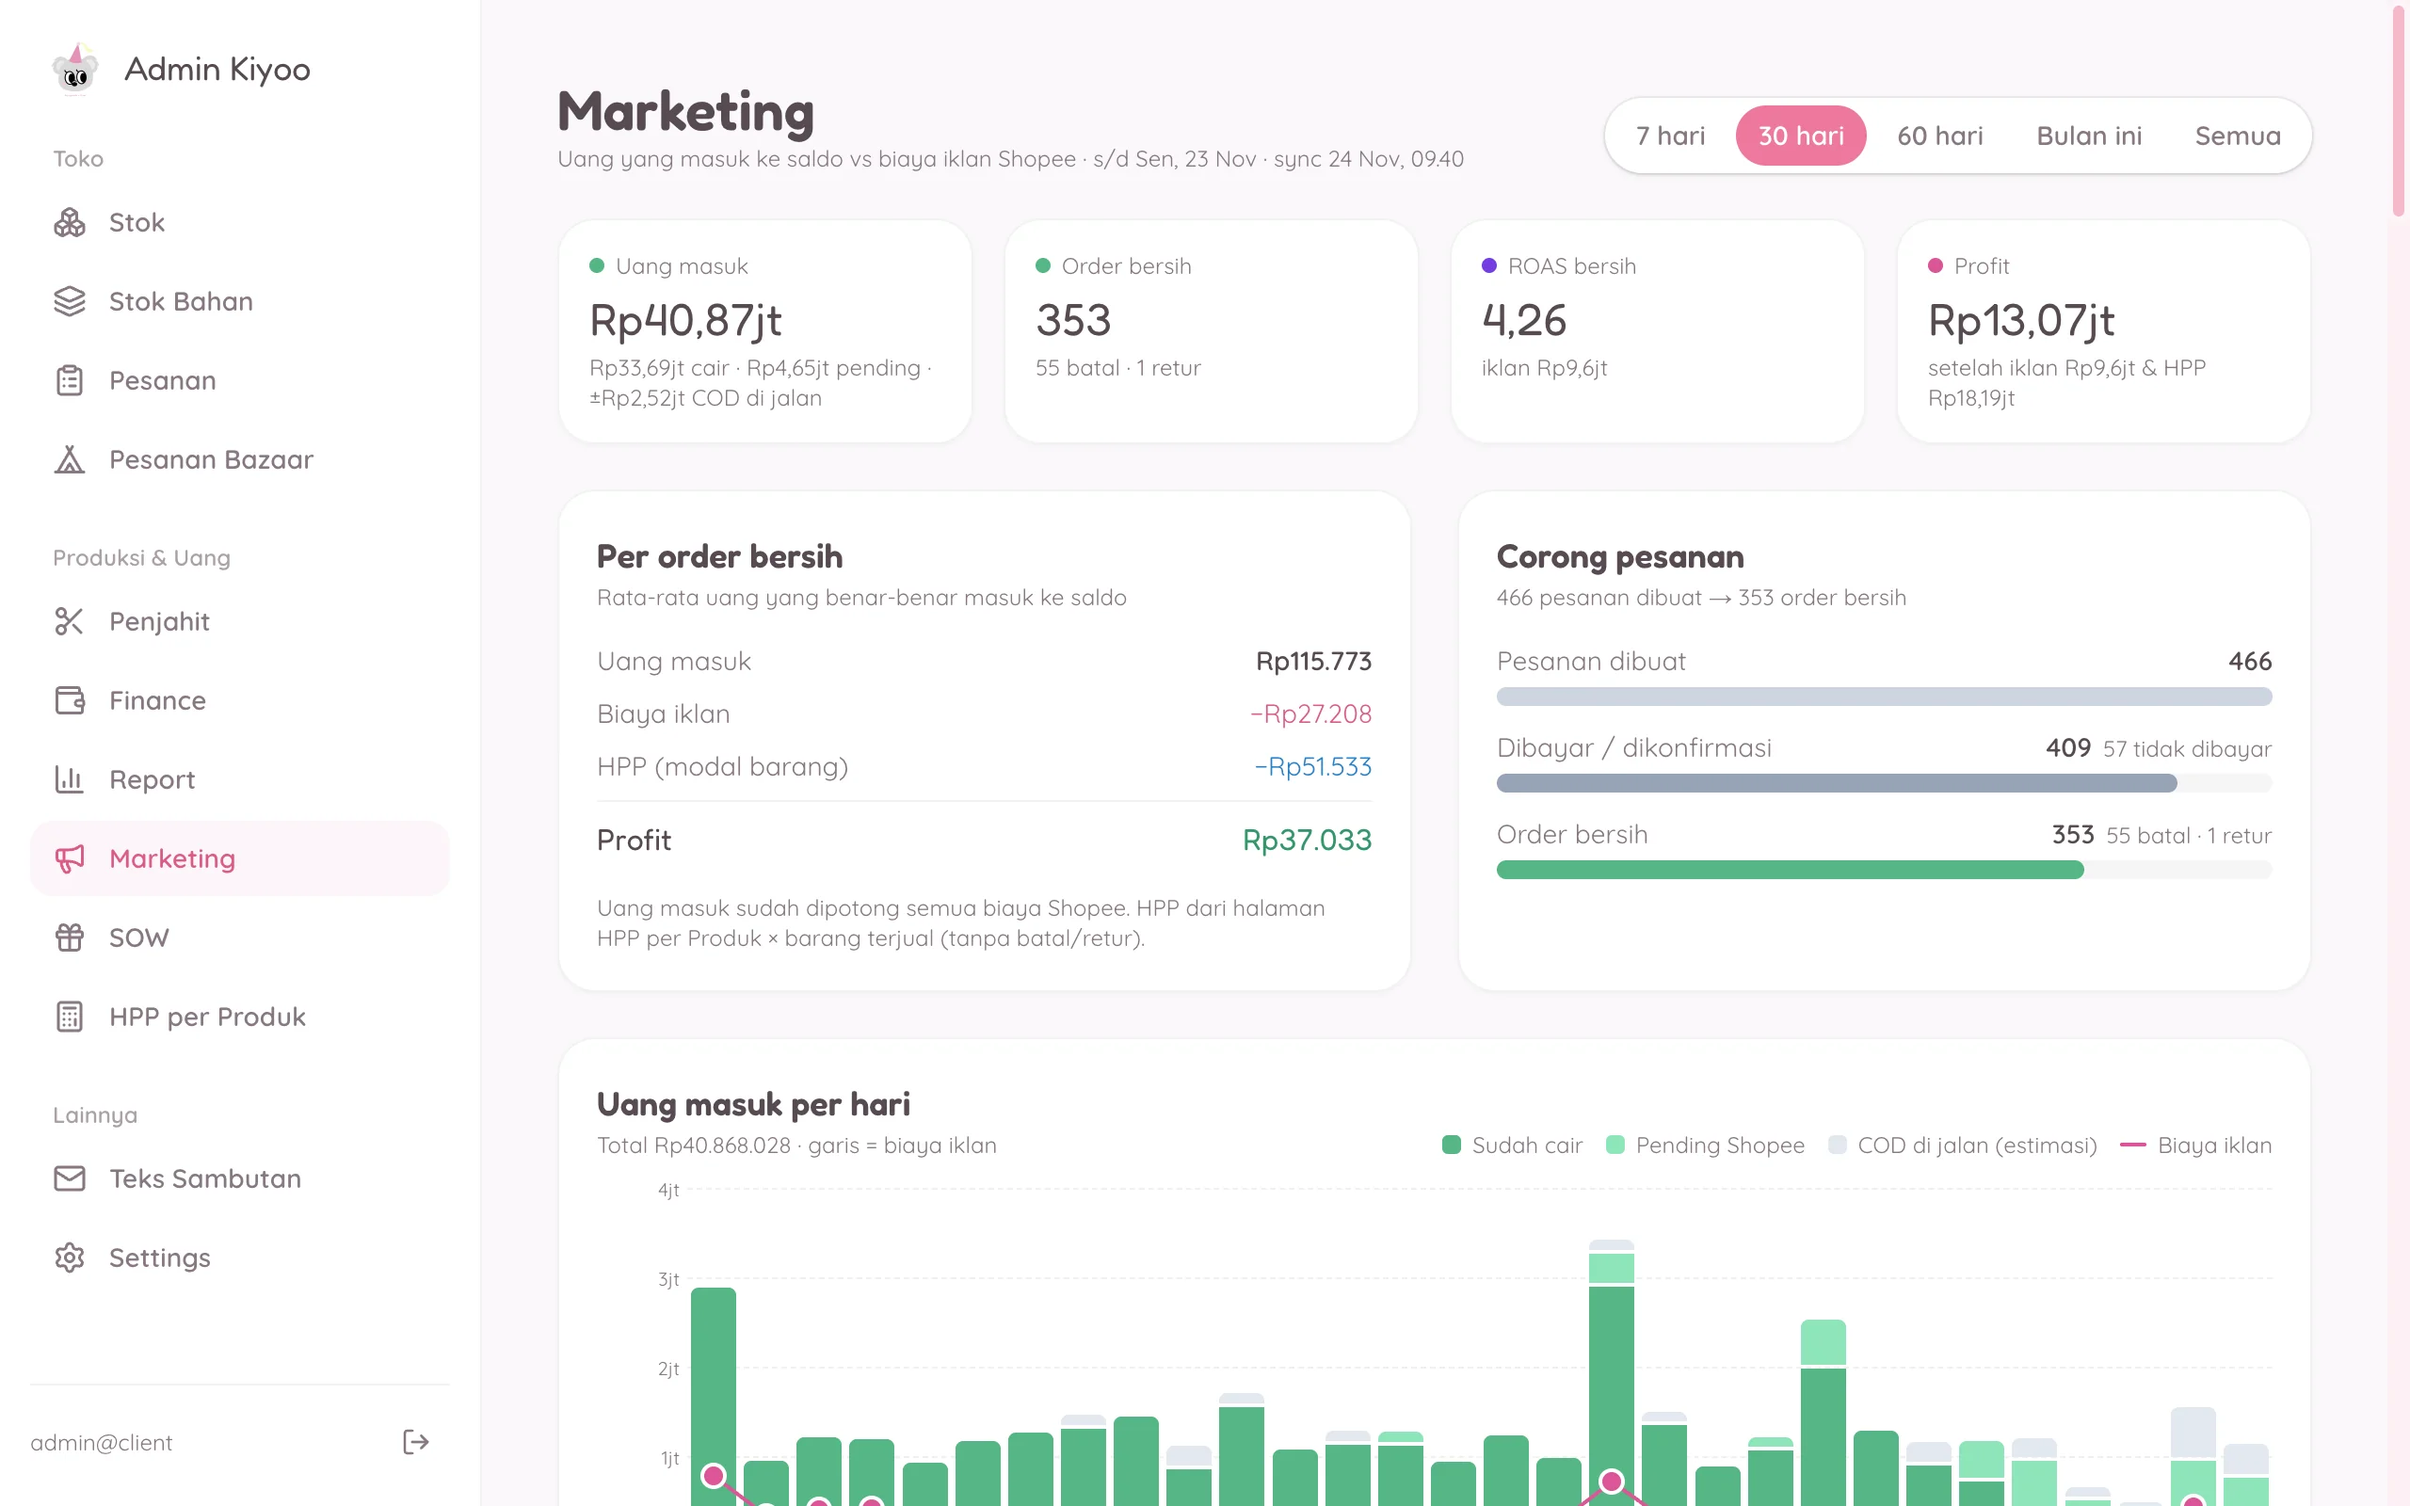
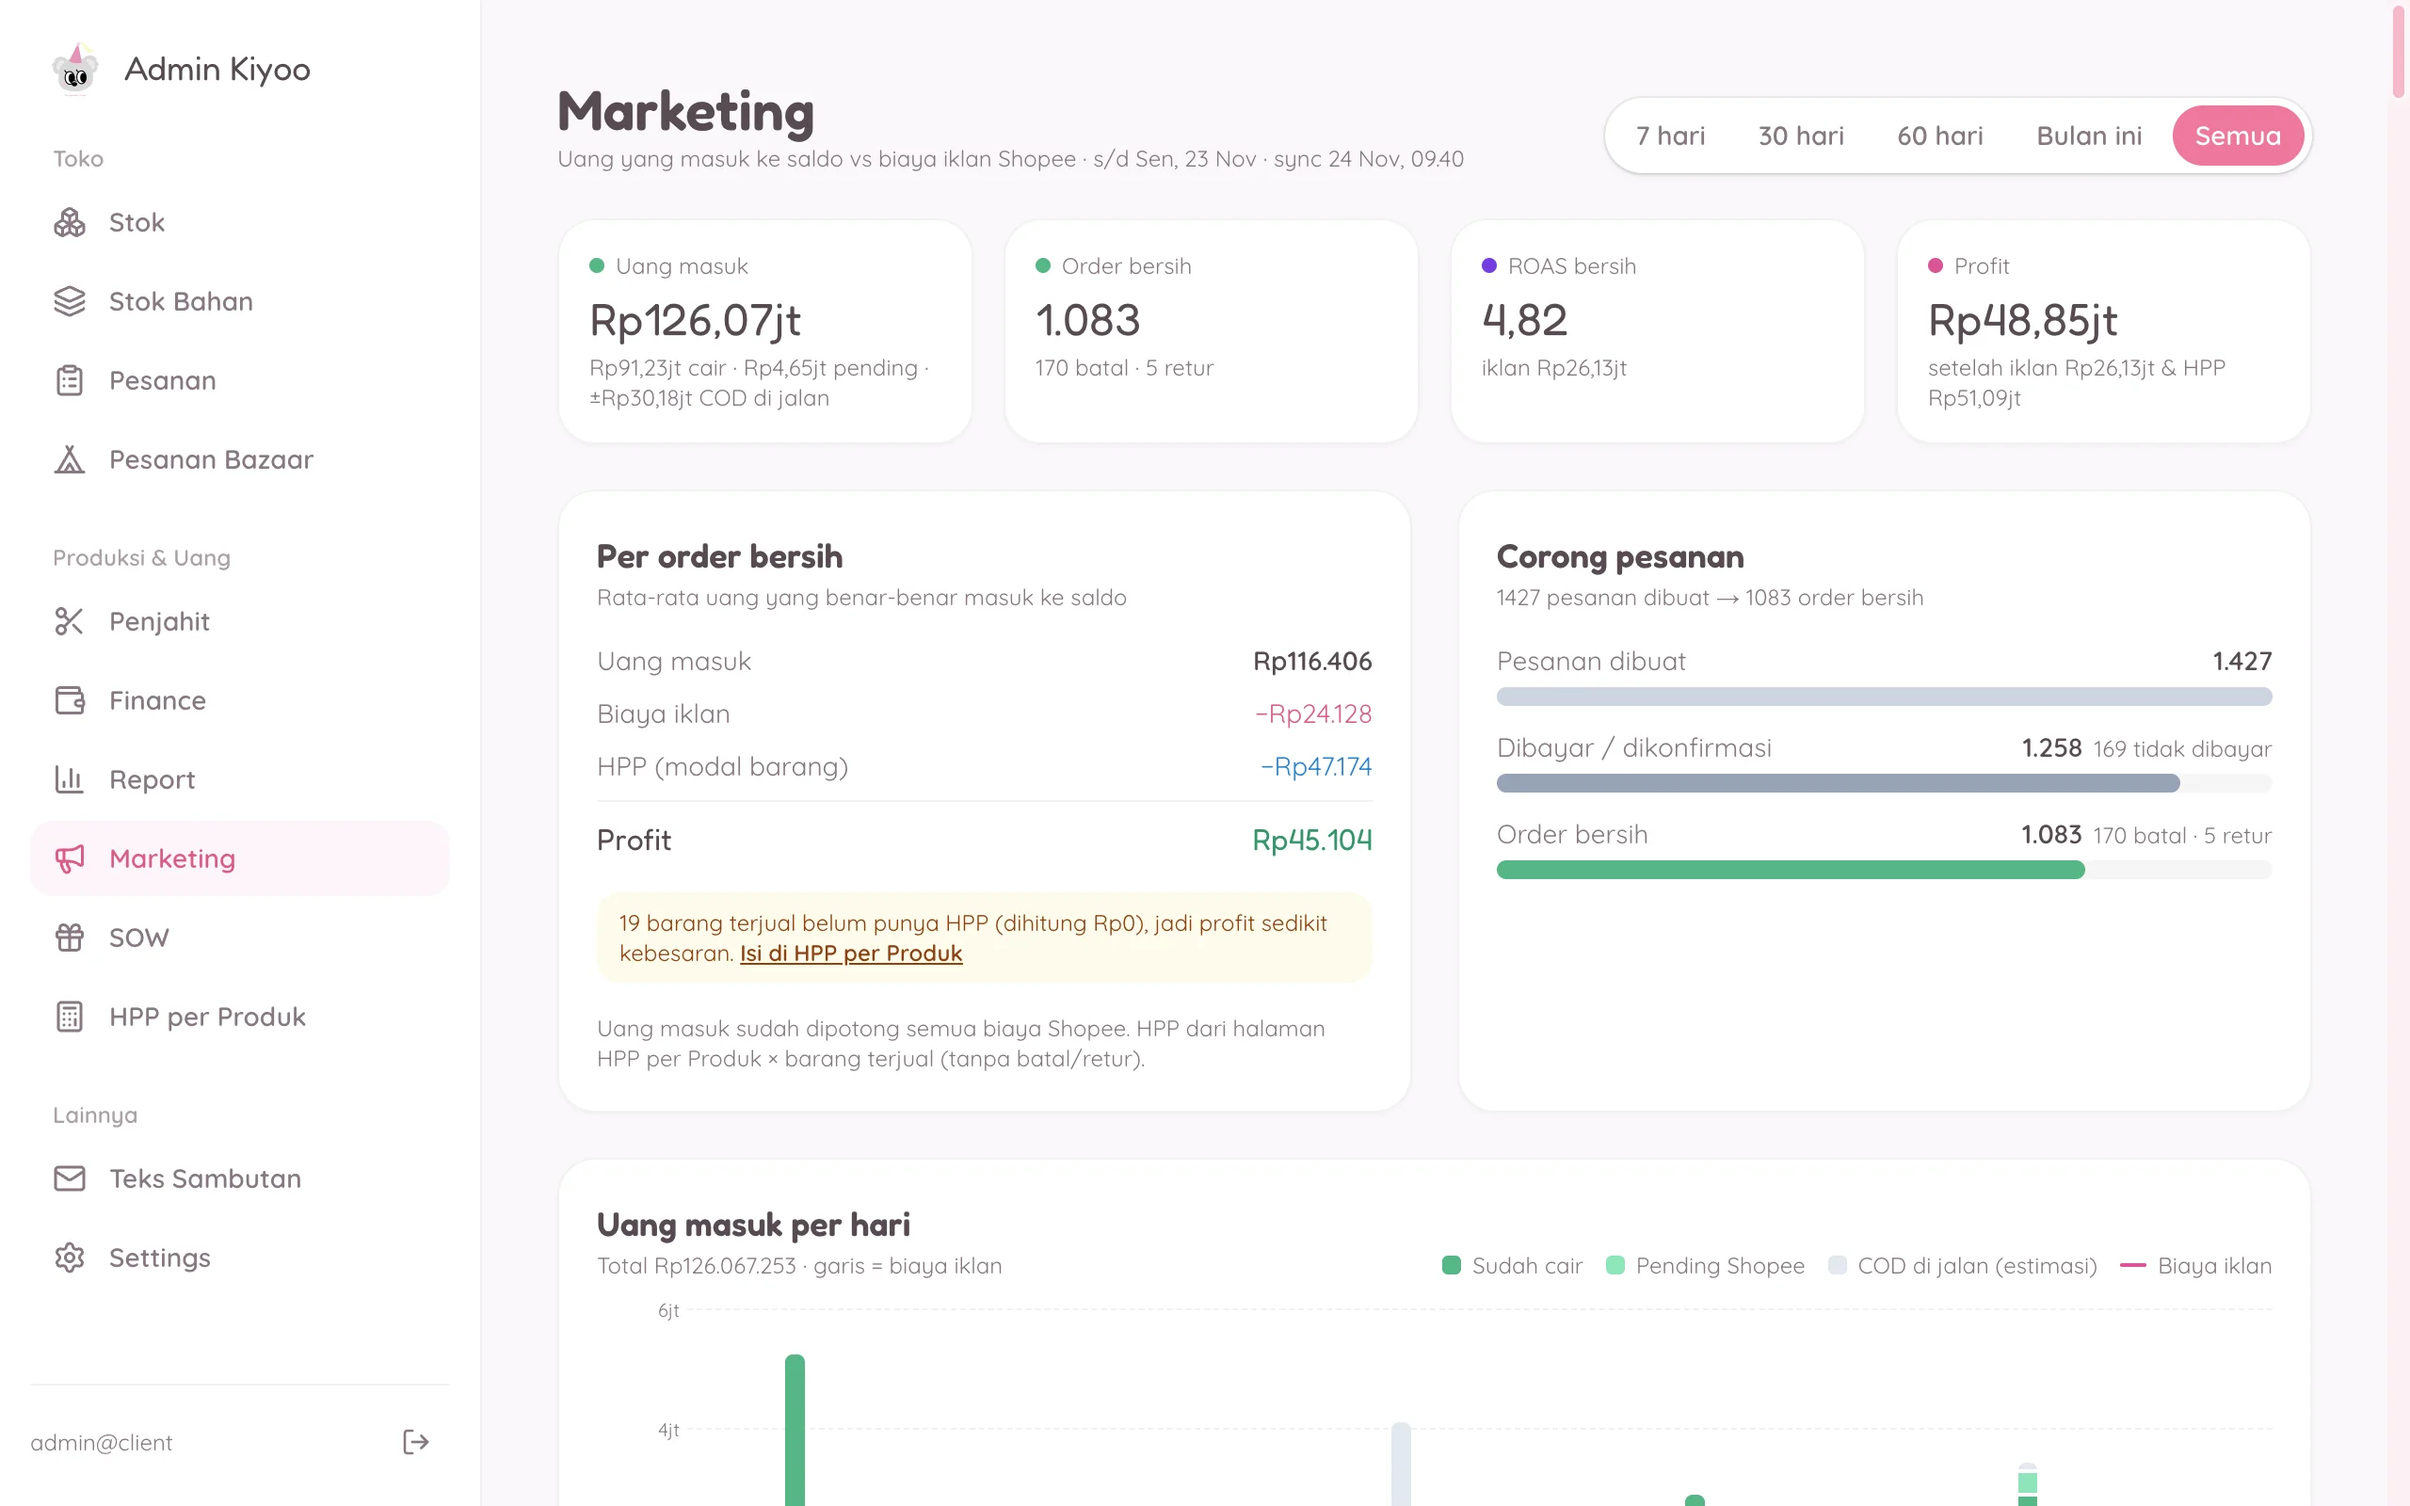
Kiyoo case study: use all-orders numbers instead of last 30 days
Results, captions and the two Marketing screenshots now use the dashboard's
all-orders view (1,083 clean orders, net ROAS 4.82, Rp48.85M profit).

diff --git a/src/content/projects.ts b/src/content/projects.ts
@@ -27,8 +27,8 @@ export const projects: Project[] = [
     visual: 'shot', color: 'pink', client: true,
     shot: {
       src: 'images/kiyoo/01-marketing-overview.webp',
-      alt: 'Kiyoo admin Marketing dashboard showing money in, clean orders, net ROAS and profit for the last 30 days.',
-      label: 'kiyoo / marketing · 30 days',
+      alt: 'Kiyoo admin Marketing dashboard showing money in, clean orders, net ROAS and profit across all orders.',
+      label: 'kiyoo / marketing · all orders',
     },
     idea: 'Back office for an online shop: AI agents log every payment from Gmail, compute real ROAS from Shopee data, and track tailor production.',
     focus: ['A finance tracker that fills itself.', 'Real ROAS instead of Shopee’s ROAS.', 'Tailor (vendor) tracking.'],
